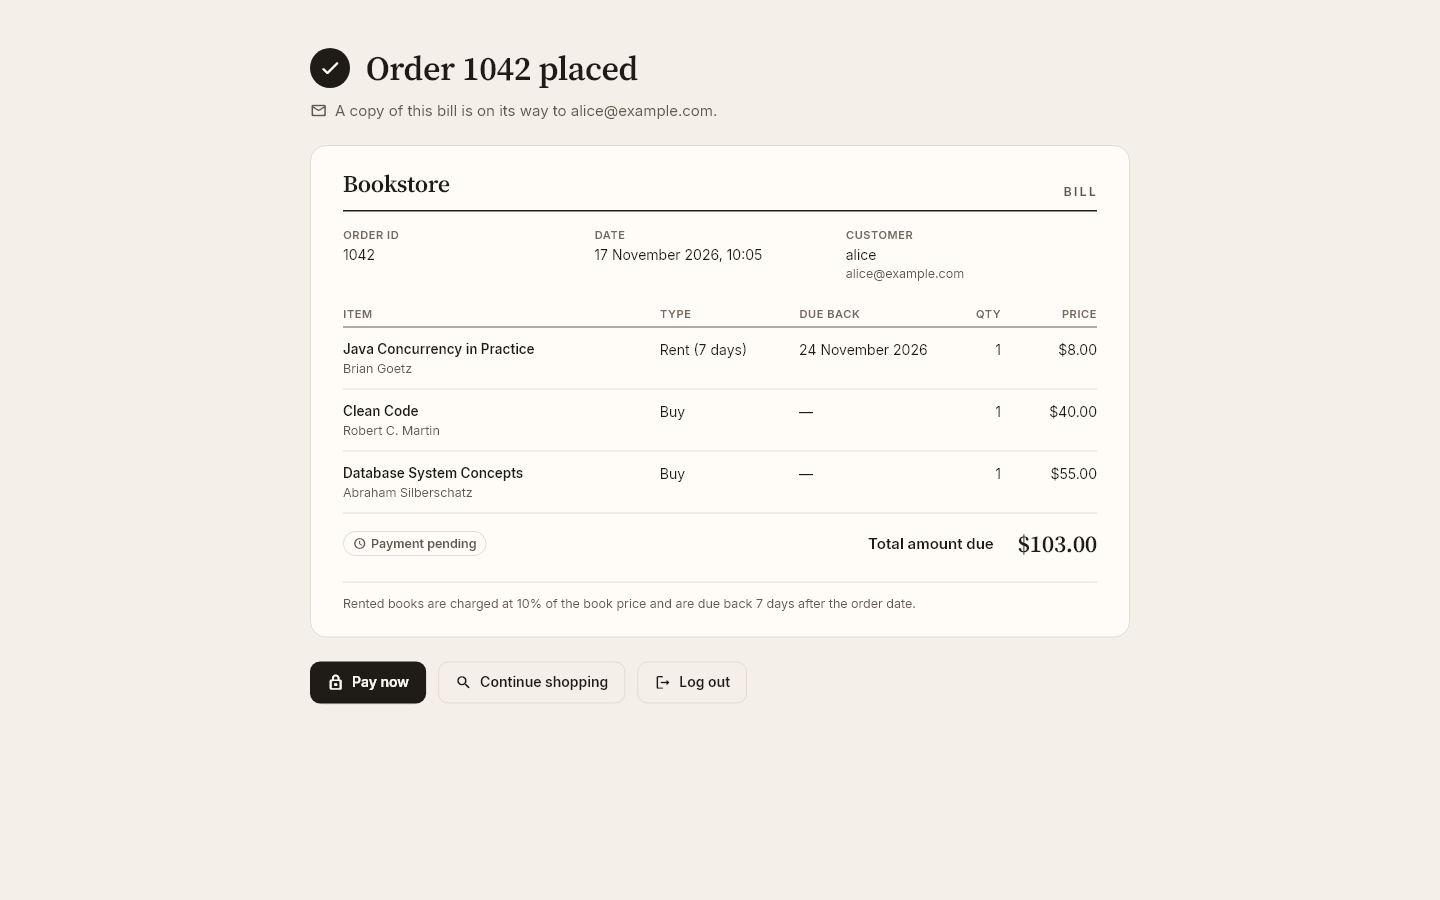
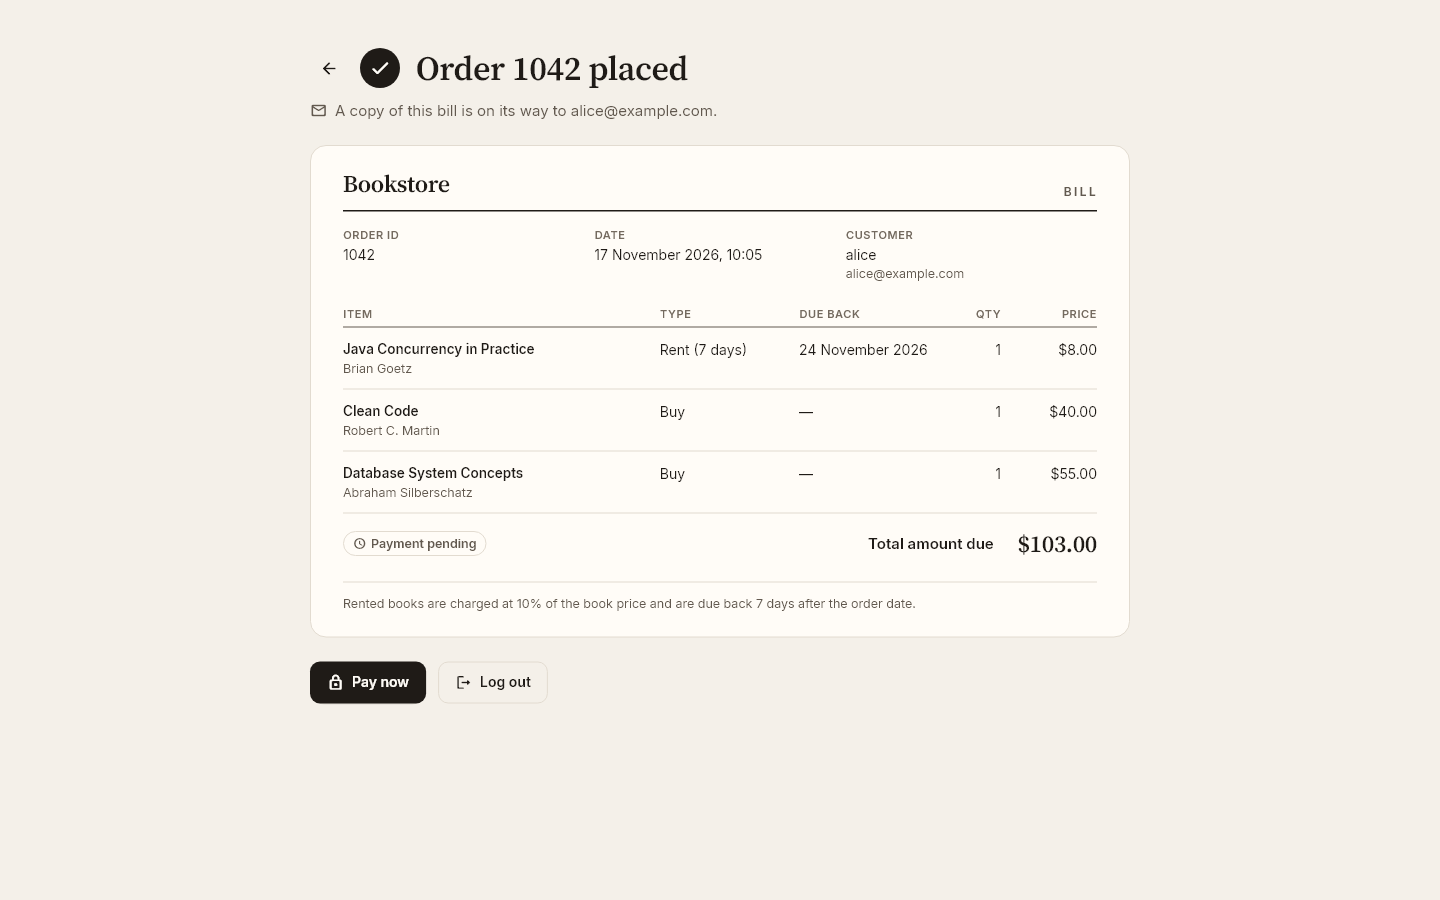
Give the bill screen a back arrow instead of Continue shopping
Asked for by the owner after trying the account page and checkout, which they confirmed work.

Changed region(s): [[0.2188, 0.0311, 0.5, 0.0933], [0.3125, 0.7467, 0.4375, 0.7778], [0.4688, 0.7467, 0.5, 0.7778]]

diff --git a/clients/customer-app/lib/screens/bill_screen.dart b/clients/customer-app/lib/screens/bill_screen.dart
@@ -48,6 +48,8 @@ class _BillScreenState extends State<BillScreen> {
                   children: [
                     Row(
                       children: [
+                        AppIconButton(icon: Icons.arrow_back_rounded, tooltip: 'Back to search (Esc)', onPressed: back),
+                        const SizedBox(width: Space.md),
                         Container(
                           width: 40,
                           height: 40,
@@ -84,12 +86,6 @@ class _BillScreenState extends State<BillScreen> {
                       runSpacing: Space.md,
                       children: [
                         if (!order.isPaid) AppButton(label: 'Pay now', icon: Icons.lock_outline_rounded, onPressed: _pay),
-                        AppButton(
-                          label: 'Continue shopping',
-                          icon: Icons.search_rounded,
-                          style: order.isPaid ? AppButtonStyle.primary : AppButtonStyle.secondary,
-                          onPressed: back,
-                        ),
                         AppButton(label: 'Log out', icon: Icons.logout_rounded, style: AppButtonStyle.secondary, onPressed: services.users.logout),
                       ],
                     ),

diff --git a/clients/customer-app/test/screens_test.dart b/clients/customer-app/test/screens_test.dart
@@ -64,7 +64,7 @@ void main() {
     await tester.pumpAndSettle();
     await tester.tap(find.byTooltip('Close (Esc)'));
     await tester.pumpAndSettle();
-    await tester.tap(find.widgetWithText(AppButton, 'Continue shopping'));
+    await tester.tap(find.byTooltip('Back to search (Esc)'));
     await tester.pumpAndSettle();
     await tester.tap(find.byTooltip('Your account'));
     await tester.pumpAndSettle();
@@ -102,7 +102,7 @@ void main() {
     await start(tester);
     await logIn(tester);
     await placeRental(tester);
-    await tester.tap(find.widgetWithText(AppButton, 'Continue shopping'));
+    await tester.tap(find.byTooltip('Back to search (Esc)'));
     await tester.pumpAndSettle();
 
     await tester.tap(find.byTooltip('Your account'));

diff --git a/clients/customer-app/test/screenshots_test.dart b/clients/customer-app/test/screenshots_test.dart
@@ -134,7 +134,7 @@ void main() {
     await shoot(tester, 'customer-bill-light');
     expect(services.draft.isEmpty, isTrue);
 
-    await tester.tap(find.widgetWithText(AppButton, 'Continue shopping'));
+    await tester.tap(find.byTooltip('Back to search (Esc)'));
     await tester.pumpAndSettle();
     await toggleDark(tester);
     await tester.enterText(find.byType(TextField).first, 'java');

diff --git a/tools/diagrams/flutter_cls.py b/tools/diagrams/flutter_cls.py
@@ -73,7 +73,7 @@ c = [
  cls('reg', 'RegisterScreen', COL[1], R[0], ['- username, email : TextEditingController', '- password, confirm : TextEditingController', '- problems : Map<String, String>', '- loading : bool', '- error : String?'], [BUILD, '- onRegister() : Future<void>'], BLUE),
  cls('search', 'SearchScreen', COL[2], R[0], ['- results : List<Book>', '- total : int?', '- query : String', '- selected : Book?', '- loading : bool', '- error : String?'], [BUILD, '- load() : Future<void>', '- add(book, type) : void', '- openOrder() : Future<void>', '- openAccount() : Future<void>', '- logout() : Future<void>'], BLUE),
  cls('orderc', 'OrderScreen', COL[3], R[0], ['- placing : bool', '- error : String?'], [BUILD, '- remove(item) : void  (with Undo)', '- onPlaceOrder() : Future<void>'], BLUE),
- cls('billc', 'BillScreen', COL[4], R[0], ['- order : Order'], [BUILD, '- pay() : Future<void>', '(Pay now, Continue shopping, Log out)'], BLUE),
+ cls('billc', 'BillScreen', COL[4], R[0], ['- order : Order'], [BUILD, '- pay() : Future<void>', '(Back, Pay now, Log out)'], BLUE),
  cls('pay', 'PayDialog', COL5, R[0], ['- order : Order', '- paying : bool', '- error : String?', '(no card details: OrderApi.pay)'], ['showPayDialog(context, order)', '    : Future<Order?>'], BLUE),
  cls('acct', 'AccountScreen', COL[4], R[1], ['- orders : List<Order>?', '- error : String?', '(profile, preferences, rentals,', ' orders with their bills)'], [BUILD, '- load() : Future<void>', '- pay(order) : Future<void>', '- openBill(order) : Future<void>'], BLUE),
  cls('prefs', 'Preferences', COL5, R[1], ['+ file : File?  (AppData)', '+ darkMode : bool', '+ listView : bool'], ['+ loadFor(username) : void', '+ update({darkMode, listView})', '+ forget() : void'], GREY, 'ChangeNotifier'),

diff --git a/docs/04-planning/milestones.md b/docs/04-planning/milestones.md
@@ -47,7 +47,7 @@ The live version of this plan is on GitHub: milestones hold the deadlines, issue
 - [x] Install Flutter and create the two desktop projects
 - [x] customer-app in Flutter, asynchronous calls (N2): register (the app half of FR3, issue #15), login, search, select books, place order, see bill. Checked against the running services; the owner ran it and it works
 - [x] management-app in Flutter, asynchronous calls (N2): login, orders list, payment status, an order's bill, add and update books (issue #12). 15 tests; checked against the running services; the owner tried it and everything works
-- [x] Asked for by the owner, beyond the PRD: an account page in the customer app (order history, profile, preferences, rentals due back) and a pretend checkout that marks an order paid (no real card details). Checked against the running services. **Waiting for the owner to try it**
+- [x] Asked for by the owner, beyond the PRD: an account page in the customer app (order history, profile, preferences, rentals due back) and a pretend checkout that marks an order paid (no real card details). Checked against the running services; the owner tried it ("everything is alright")
 
 ### M5 — Testing & Final Release (due 2026-12-04)
 
@@ -88,3 +88,4 @@ Add a short dated note whenever a milestone closes or a deadline moves, and say 
 | 2026-11-17 | The owner ran the customer app: it works. They asked for an account page and a way to pay; decided to build the management app first. Management app built: shared log-in and service clients moved into `bookstore-ui`, a new `GET /api/orders/{id}` in order-service (92 tests), 15 app tests, checked against the running services. Next: the owner tries it; then the account page and the pretend checkout. |
 | 2026-11-17 | The owner tried the management app: "everything seems good". Issue #12 closed. Next: the account page and the pretend checkout. |
 | 2026-11-17 | Account page and pretend checkout built: two new order-service endpoints (101 tests), 34 customer-app tests, checked against the running services. Next: the owner tries them; then M5, testing every requirement end to end. |
+| 2026-11-17 | The owner tried the account page and checkout: "everything is alright". At their request the bill screen's "Continue shopping" button became a back arrow, as on the account page. M5 started. |

diff --git a/CLAUDE.md b/CLAUDE.md
@@ -19,7 +19,7 @@ The live plan is `docs/04-planning/milestones.md`; tasks are GitHub issues on `K
 | book-service (Python Flask, MongoDB) | Done, verified on the running service |
 | order-service (Python Flask, MySQL) | Done, verified on the running service with the other two. A real bill email was sent through Gmail (`email_check.py`) and the owner confirmed it looks right in the inbox. `GET /api/orders/{id}`, `GET /api/orders/mine`, `POST /api/orders/{id}/pay` added in M4 (101 tests) |
 | bookstore-ui (shared) | The look, plus the shared log-in form, `ApiClient`, `Session`, `UserApi`, `BookApi`, `Book`, `Order` (18 tests) |
-| customer-app (Flutter) | Built on the real services (issues 11, 15), 34 tests. The owner ran it: it works. Account page and pretend checkout added after: **not yet tried by the owner** |
+| customer-app (Flutter) | Built on the real services (issues 11, 15), 34 tests. The owner ran it: it works. Account page and pretend checkout added after; the owner tried them too |
 | management-app (Flutter) | Built (issue 12), 15 tests, checked against the running services. The owner tried it: it works (`manager1` / `manager123`) |
 | Customer account page + pretend checkout | Built 2026-11-17, beyond the PRD (asked for by the owner). No card details are ever asked for or stored. Preferences in `%APPDATA%\CSCE310 Bookstore\preferences.json` |
 | **Next** | M5: test every requirement end to end; add the two new endpoints to `manual_check.py`; final release |

diff --git a/docs/03-problems/problem-log.md b/docs/03-problems/problem-log.md
@@ -472,4 +472,3 @@ Things that are known to be unfinished or unverified, so nobody is surprised lat
 | Sessions never expire; they end only at logout | M2 | The PRD asks for exactly this (FR2). Noted in case an expiry is wanted |
 | Returning a rented book is not built: a rented copy never comes back to the shelf by itself, and the account page keeps showing it as late | M2 | Not asked for by the PRD. A manager can raise the number of copies (FR14) |
 | `manual_check.py` does not call the two M4 endpoints (`GET /api/orders/mine`, `POST /api/orders/{id}/pay`). They are tested in `test_api.py` and were checked on the running service by the customer app's live check | M4 | Add them to `manual_check.py` in M5 |
-| The account page and the pretend checkout have not been tried by the owner in the real window | M4 | The owner tries them |
